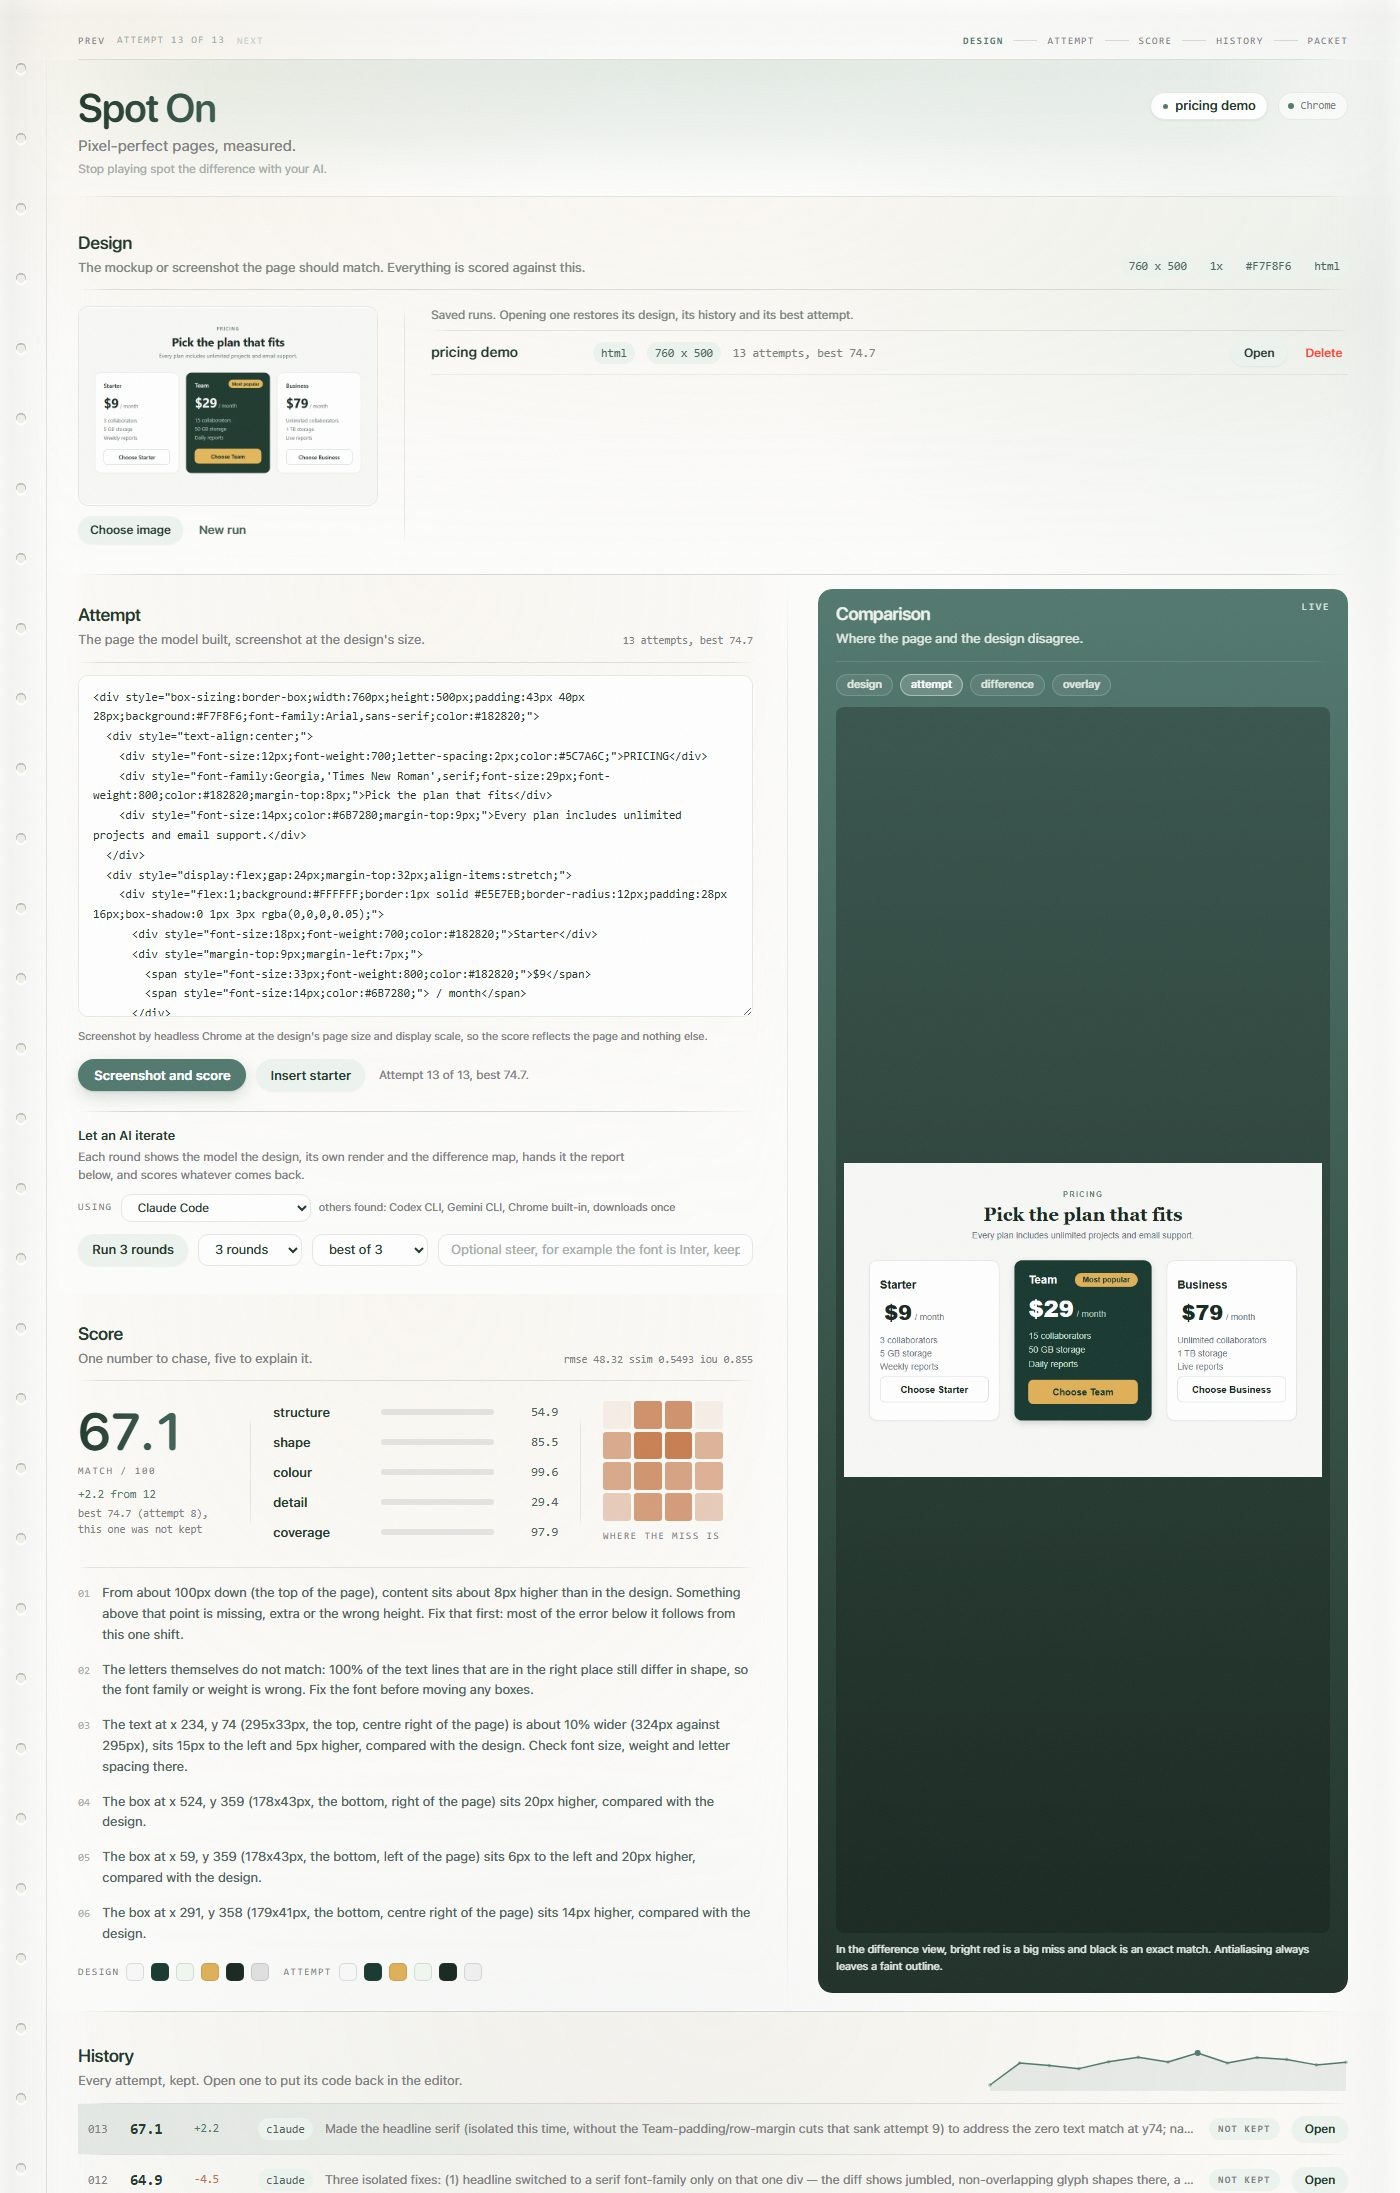
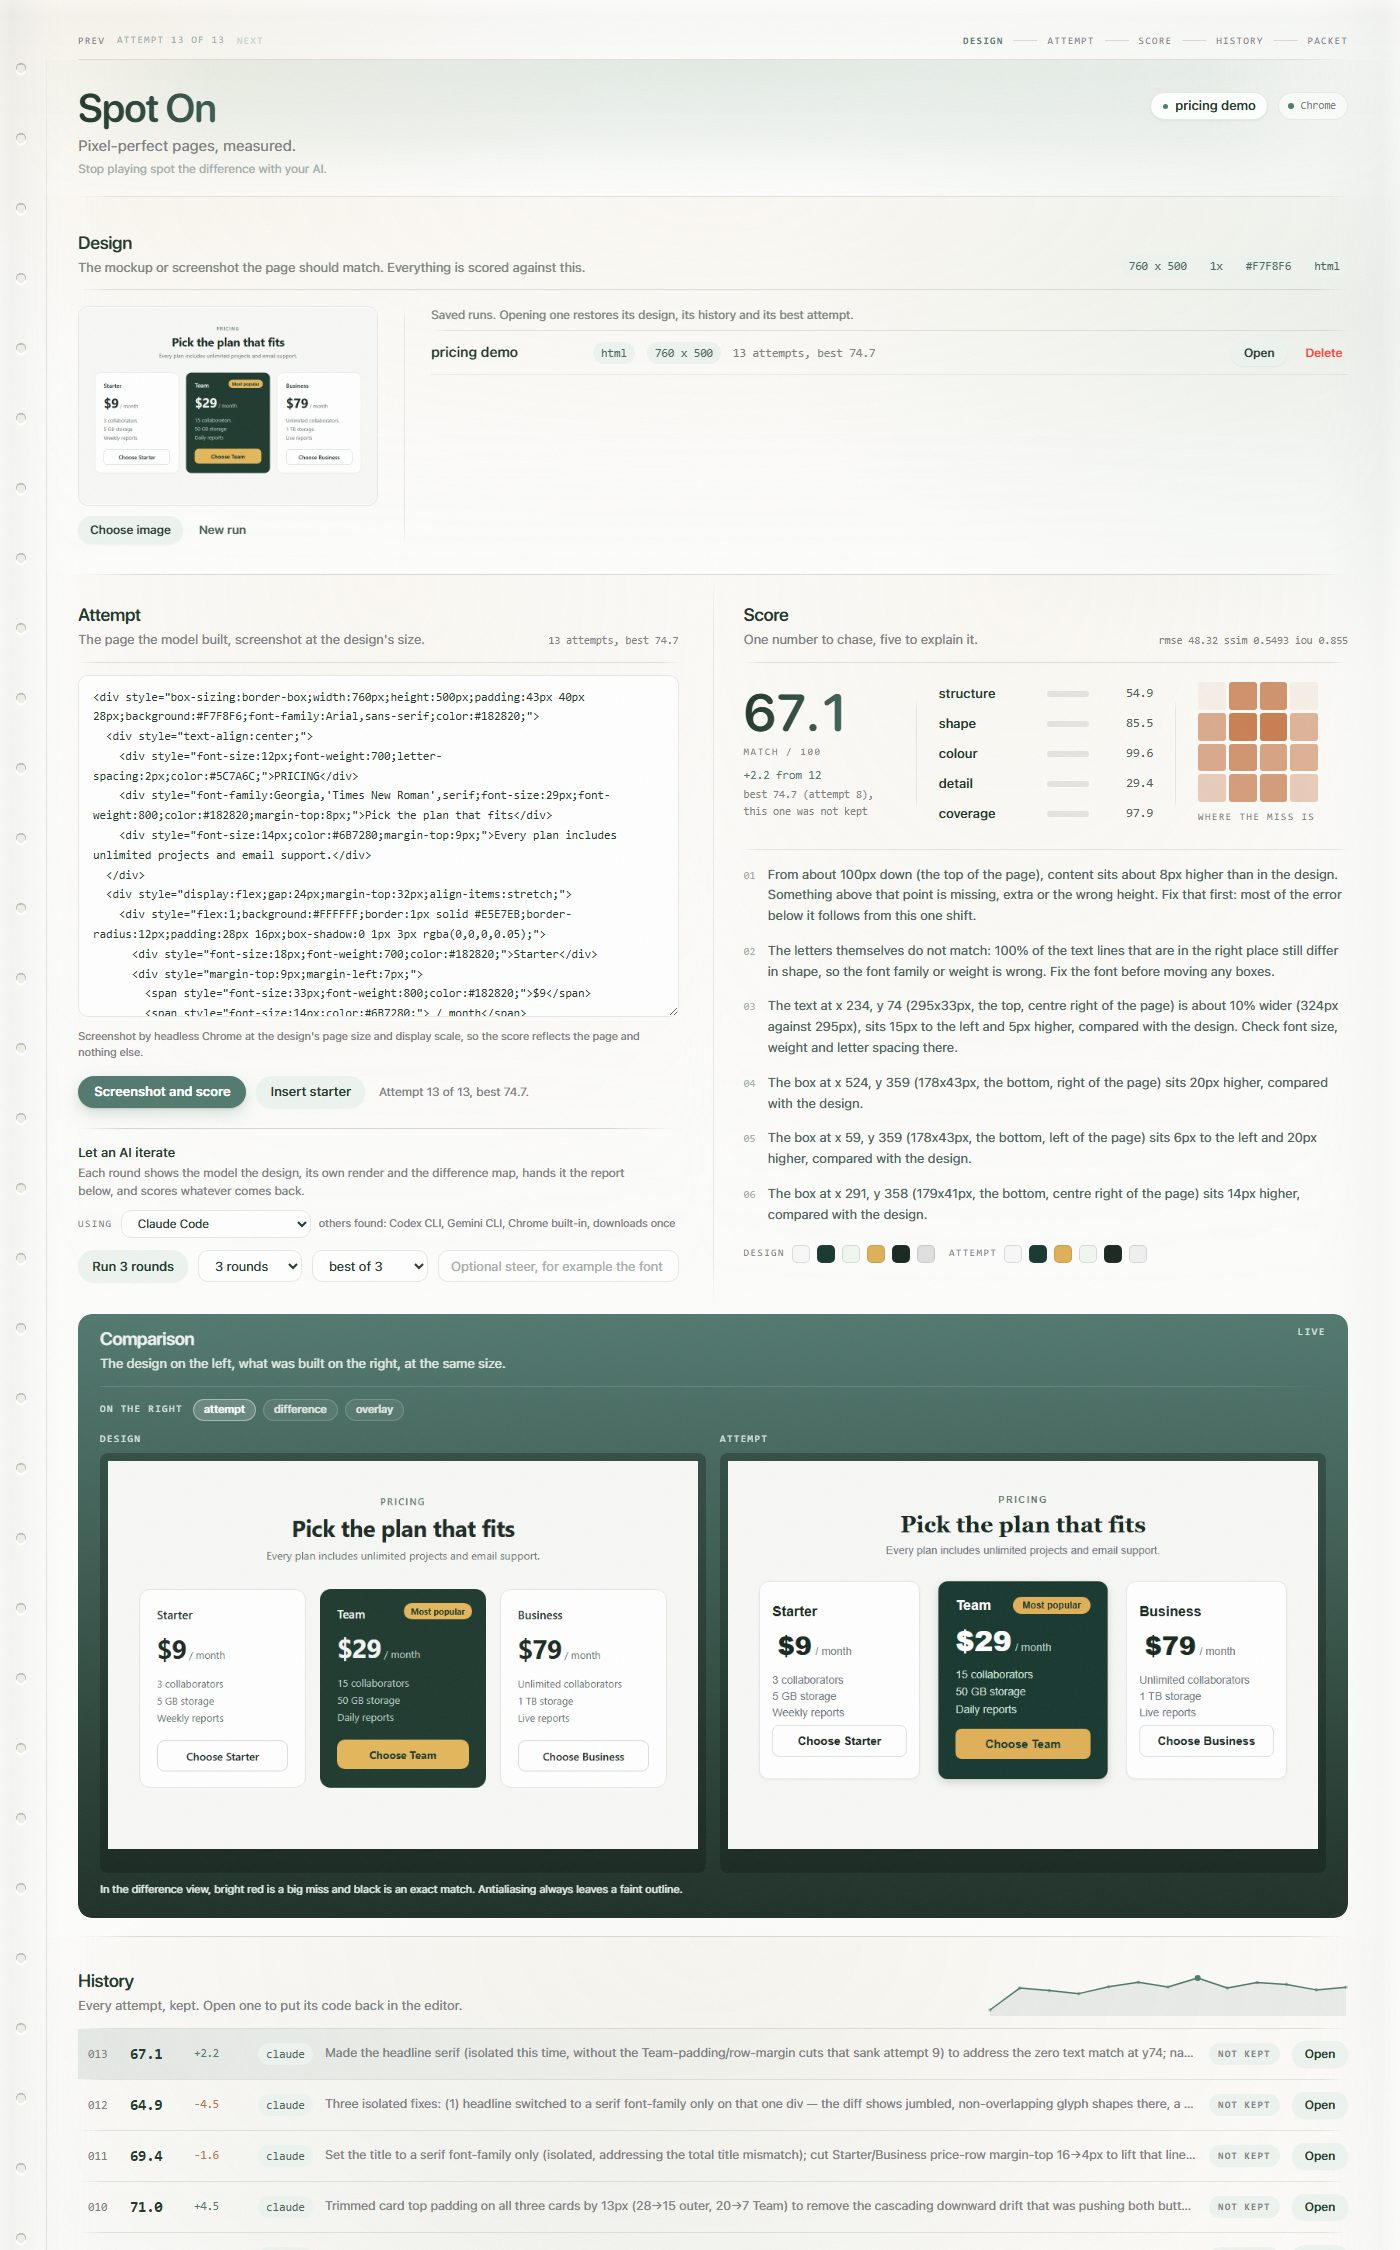
Put the comparison across the page, with the design beside the build
The comparison sat in a 560px column and showed one image at a time
behind four chips, so seeing the design against what was built meant
clicking between them and holding the difference in your head. It runs
the full width now, the design pinned on the left and the build on the
right at the same size, which is the comparison the tool exists to make.

The chips change only the right pane, so "design" is no longer one of
them. Attempt and Score take the two columns the comparison vacated,
which also gives the report room to list what it found instead of
clipping it.

diff --git a/spot-on.py b/spot-on.py
@@ -2324,7 +2324,7 @@ PAGE_HTML = r"""<!doctype html>
 
     <div class="rule20"></div>
 
-    <div style="position: relative; display: grid; grid-template-columns: minmax(0,1fr) 1px 560px; align-items: stretch;">
+    <div style="position: relative; display: grid; grid-template-columns: minmax(0,1fr) 1px minmax(0,1fr); align-items: stretch;">
 
       <div id="sec-attempt" style="grid-column: 1; grid-row: 1; padding: 26px 34px 28px 0; min-width: 0; position: relative;">
         <div class="wash wash-cream" aria-hidden="true" style="left: -32px; right: -10px;"></div>
@@ -2385,29 +2385,40 @@ PAGE_HTML = r"""<!doctype html>
         </div>
       </div>
 
-      <div class="vrule" style="grid-column: 2; grid-row: 1 / 3;"></div>
+      <div class="vrule" style="grid-column: 2; grid-row: 1;"></div>
 
-      <div id="sec-compare" style="grid-column: 3; grid-row: 1 / 3; display: flex; flex-direction: column; padding: 11px 18px 18px; margin: 14px 0 18px 30px; min-width: 0; background: linear-gradient(180deg, #52796F 0%, #3E5D53 40%, #2A4237 74%, #1F3029 100%); border-radius: 14px; color: #D6E1D8; -webkit-mask-image: radial-gradient(126% 118% at 50% 42%, #000 62%, rgba(0,0,0,0.55) 84%, rgba(0,0,0,0) 100%); mask-image: radial-gradient(126% 118% at 50% 42%, #000 62%, rgba(0,0,0,0.55) 84%, rgba(0,0,0,0) 100%);">
+      <div id="sec-compare" style="grid-column: 1 / -1; grid-row: 2; display: flex; flex-direction: column; padding: 11px 22px 20px; margin: 4px 0 18px; min-width: 0; background: linear-gradient(180deg, #52796F 0%, #3E5D53 40%, #2A4237 74%, #1F3029 100%); border-radius: 14px; color: #D6E1D8; -webkit-mask-image: radial-gradient(126% 118% at 50% 42%, #000 62%, rgba(0,0,0,0.55) 84%, rgba(0,0,0,0) 100%); mask-image: radial-gradient(126% 118% at 50% 42%, #000 62%, rgba(0,0,0,0.55) 84%, rgba(0,0,0,0) 100%);">
         <div style="display: flex; align-items: flex-start; justify-content: space-between; gap: 16px; padding: 0 0 12px;">
           <div style="flex: 1; min-width: 0;">
             <h2 class="sec-title" style="color: #EDF2ED;">Comparison</h2>
-            <div style="font-size: 13px; color: #E2EAE3; margin-top: 2px;">Where the page and the design disagree.</div>
+            <div style="font-size: 13px; color: #E2EAE3; margin-top: 2px;">The design on the left, what was built on the right, at the same size.</div>
           </div>
           <span class="mono" style="font-size: 10px; color: #DCEBE0; letter-spacing: 0.16em; text-transform: uppercase;">live</span>
         </div>
         <div style="height: 1px; background: linear-gradient(90deg, rgba(255,255,255,0.13), rgba(255,255,255,0.13) 94%, transparent); margin-bottom: 12px;"></div>
 
         <div style="display: flex; align-items: center; gap: 7px; margin-bottom: 11px; flex-wrap: wrap;">
-          <button type="button" class="dark-chip" data-view="reference">design</button>
+          <span class="mono" style="font-size: 10px; color: #DCEBE0; letter-spacing: 0.14em; text-transform: uppercase; margin-right: 3px;">on the right</span>
           <button type="button" class="dark-chip active" data-view="attempt">attempt</button>
           <button type="button" class="dark-chip" data-view="difference">difference</button>
           <button type="button" class="dark-chip" data-view="overlay">overlay</button>
         </div>
 
-        <div id="stage" style="position: relative; flex: 1; min-height: 340px; border-radius: 8px; overflow: hidden; background: rgba(10,18,13,0.30); display: flex; align-items: center; justify-content: center;">
-          <img id="stage-base" alt="" hidden style="position: absolute; inset: 8px; width: calc(100% - 16px); height: calc(100% - 16px); object-fit: contain;">
-          <img id="stage-over" alt="" hidden style="position: absolute; inset: 8px; width: calc(100% - 16px); height: calc(100% - 16px); object-fit: contain;">
-          <span id="stage-empty" class="mono" style="font-size: 11px; color: #A9AFAB;">Nothing rendered yet.</span>
+        <div style="display: grid; grid-template-columns: minmax(0,1fr) minmax(0,1fr); gap: 14px; flex: 1;">
+          <div style="display: flex; flex-direction: column; min-width: 0;">
+            <span class="mono" style="font-size: 10px; color: #DCEBE0; letter-spacing: 0.14em; text-transform: uppercase; margin-bottom: 6px;">design</span>
+            <div style="position: relative; flex: 1; min-height: 420px; border-radius: 8px; overflow: hidden; background: rgba(10,18,13,0.30);">
+              <img id="stage-design" alt="the design" hidden style="position: absolute; inset: 8px; width: calc(100% - 16px); height: calc(100% - 16px); object-fit: contain; object-position: top;">
+            </div>
+          </div>
+          <div style="display: flex; flex-direction: column; min-width: 0;">
+            <span id="stage-label" class="mono" style="font-size: 10px; color: #DCEBE0; letter-spacing: 0.14em; text-transform: uppercase; margin-bottom: 6px;">attempt</span>
+            <div id="stage" style="position: relative; flex: 1; min-height: 420px; border-radius: 8px; overflow: hidden; background: rgba(10,18,13,0.30); display: flex; align-items: center; justify-content: center;">
+              <img id="stage-base" alt="" hidden style="position: absolute; inset: 8px; width: calc(100% - 16px); height: calc(100% - 16px); object-fit: contain; object-position: top;">
+              <img id="stage-over" alt="" hidden style="position: absolute; inset: 8px; width: calc(100% - 16px); height: calc(100% - 16px); object-fit: contain; object-position: top;">
+              <span id="stage-empty" class="mono" style="font-size: 11px; color: #A9AFAB;">Nothing rendered yet.</span>
+            </div>
+          </div>
         </div>
 
         <div id="onion-row" hidden style="display: flex; align-items: center; gap: 10px; margin-top: 11px;">
@@ -2418,7 +2429,7 @@ PAGE_HTML = r"""<!doctype html>
         <div style="color: #E2EAE3; font-size: 11px; margin-top: 9px;">In the difference view, bright red is a big miss and black is an exact match. Antialiasing always leaves a faint outline.</div>
       </div>
 
-      <div id="sec-score" style="grid-column: 1; grid-row: 2; padding: 26px 34px 30px 0; min-width: 0; position: relative;">
+      <div id="sec-score" style="grid-column: 3; grid-row: 1; padding: 26px 0 30px 30px; min-width: 0; position: relative;">
         <div class="wash wash-cream" aria-hidden="true" style="left: -32px; right: -10px;"></div>
         <div style="display: flex; align-items: flex-end; justify-content: space-between; padding: 0 0 12px;">
           <div>
@@ -2925,27 +2936,33 @@ function current() {
   return null;
 }
 
+// The design keeps the left pane whatever is chosen, so the two are always side by
+// side at the same size. The chips change the right one only.
+var STAGE_LABELS = {attempt: "attempt", difference: "difference", overlay: "overlay"};
+
 function renderStage() {
   var rec = current();
-  var base = $("stage-base"), over = $("stage-over");
-  if (!state.run) { base.hidden = true; over.hidden = true; $("stage-empty").hidden = false; $("onion-row").hidden = true; return; }
-  var pad = function (n) { return ("00" + n).slice(-3); };
-  $("onion-row").hidden = state.view !== "overlay";
-  if (state.view === "reference") {
-    base.src = imgUrl("reference.png"); base.style.opacity = 1; base.hidden = false; over.hidden = true;
-    $("stage-empty").hidden = true;
+  var base = $("stage-base"), over = $("stage-over"), design = $("stage-design");
+  $("stage-label").textContent = STAGE_LABELS[state.view] || "attempt";
+  if (!state.run) {
+    design.hidden = true; base.hidden = true; over.hidden = true;
+    $("stage-empty").hidden = false; $("onion-row").hidden = true;
     return;
   }
+  design.src = imgUrl("reference.png");
+  design.hidden = false;
+  var pad = function (n) { return ("00" + n).slice(-3); };
+  $("onion-row").hidden = state.view !== "overlay";
   if (!rec) { base.hidden = true; over.hidden = true; $("stage-empty").hidden = false; return; }
   $("stage-empty").hidden = true;
-  if (state.view === "attempt") {
-    base.src = imgUrl("attempts/" + pad(rec.n) + ".png"); base.style.opacity = 1; base.hidden = false; over.hidden = true;
-  } else if (state.view === "difference") {
+  if (state.view === "difference") {
     base.src = imgUrl("attempts/" + pad(rec.n) + "-diff.png"); base.style.opacity = 1; base.hidden = false; over.hidden = true;
-  } else {
+  } else if (state.view === "overlay") {
     base.src = imgUrl("reference.png"); base.style.opacity = 1; base.hidden = false;
     over.src = imgUrl("attempts/" + pad(rec.n) + ".png"); over.hidden = false;
     over.style.opacity = parseInt($("onion").value, 10) / 100;
+  } else {
+    base.src = imgUrl("attempts/" + pad(rec.n) + ".png"); base.style.opacity = 1; base.hidden = false; over.hidden = true;
   }
 }
 Array.prototype.forEach.call(document.querySelectorAll("[data-view]"), function (b) {
